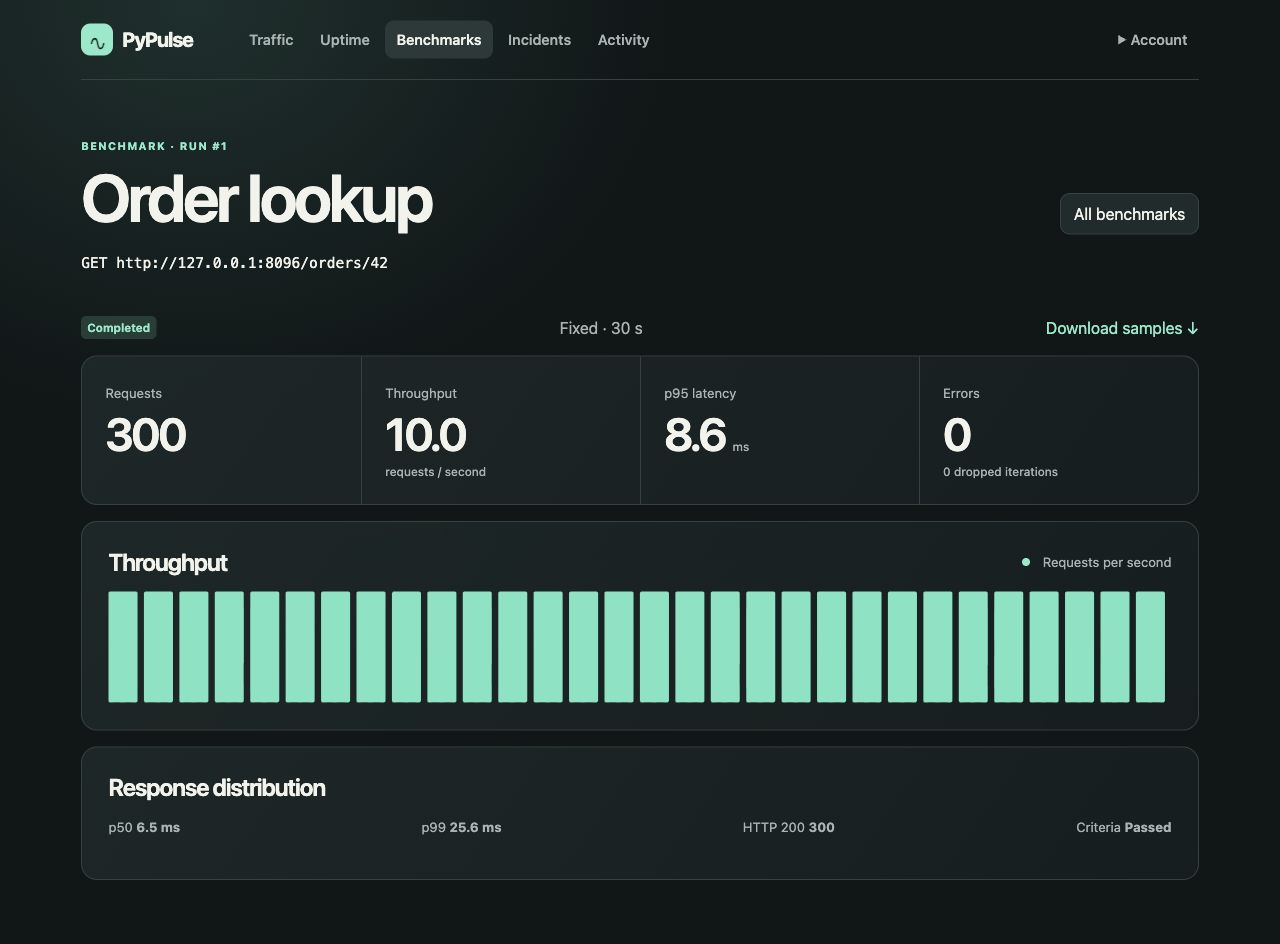
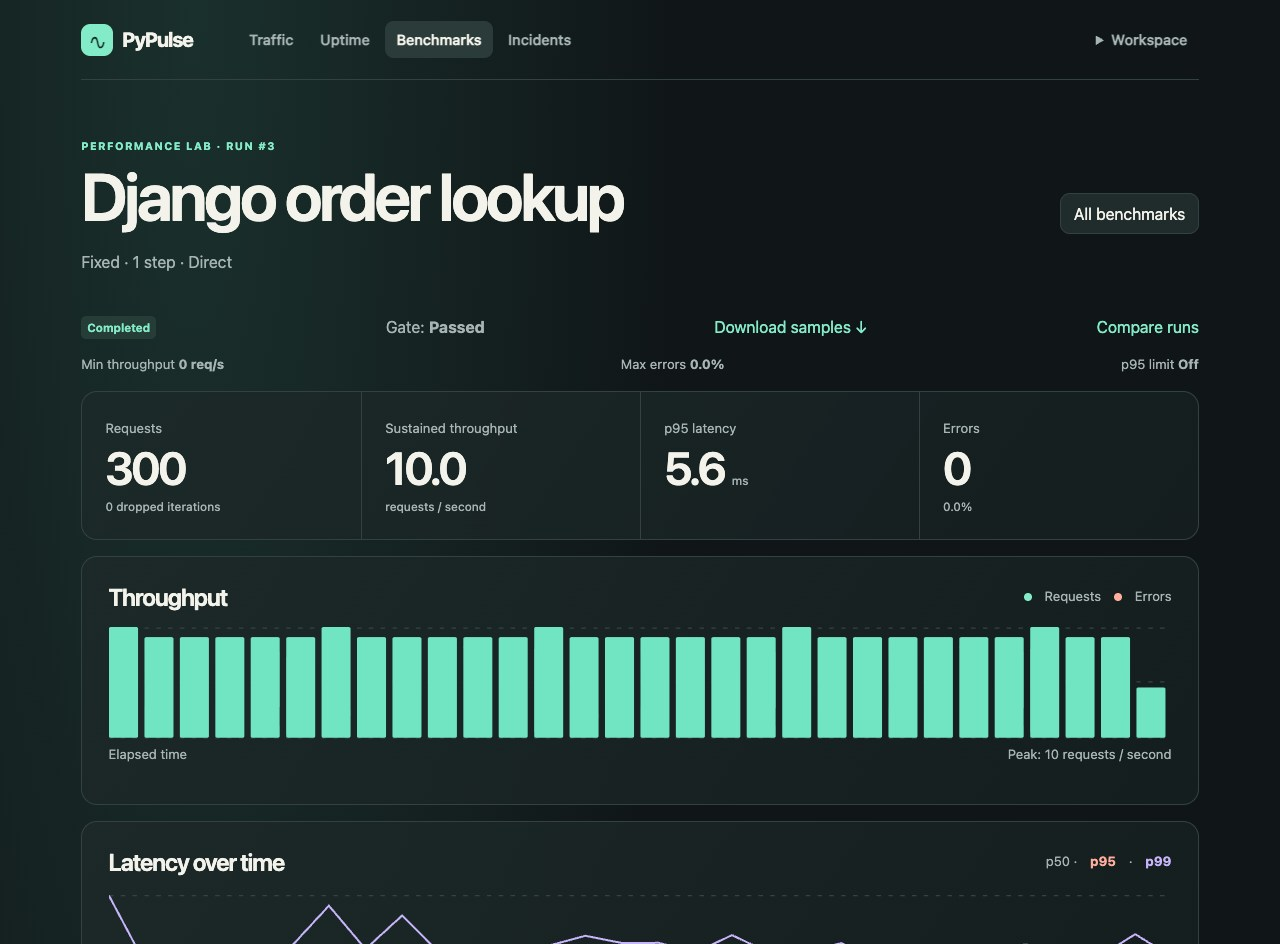
Preview monitor requests, inspect failed checks and document the live Django run

diff --git a/console/templates/console/uptime_measurements.html b/console/templates/console/uptime_measurements.html
@@ -9,9 +9,10 @@
 {% for s in segments %}<polyline points="{{ s }}" fill="none" stroke="var(--accent)" stroke-width="2" vector-effect="non-scaling-stroke"/>{% endfor %}
 {% for x,y in points %}<circle cx="{{ x }}" cy="{{ y }}" r="2" fill="var(--accent)"/>{% endfor %}</svg>
 <div class="axis"><span>{{ start|date:"M d H:i" }} UTC</span><span>{{ end|date:"M d H:i" }} UTC</span></div>{% else %}<p class="muted">No observations in this time range.</p>{% endif %}</section>
-<section class="panel"><h2>Recent checks</h2><div class="table-wrap"><table><thead><tr><th>Time (UTC)</th><th>HTTP</th><th>Duration</th><th>Result</th></tr></thead><tbody>
-{% for c in checks %}<tr><td>{{ c.at|date:"M d H:i:s" }}</td><td>{{ c.status|default:"—" }}</td><td>{{ c.ms|floatformat:1 }} ms</td><td>{% if c.slow %}Slow{% elif c.ok %}Passed{% else %}{{ c.reason|default:"Failed" }}{% endif %}</td></tr>{% empty %}<tr><td colspan="4">No checks in this time range.</td></tr>{% endfor %}
-</tbody></table></div></section>
+<section class="panel" id="checks"><div class="panel-head"><h2>Recent checks</h2><form method="get" action="#checks" class="pick"><input type="hidden" name="range" value="{{ period }}">
+<label>Result <select name="result" data-submit><option value="all">All checks</option><option value="issues" {% if check_filter == 'issues' %}selected{% endif %}>Failed or slow</option><option value="failed" {% if check_filter == 'failed' %}selected{% endif %}>Failed only</option><option value="slow" {% if check_filter == 'slow' %}selected{% endif %}>Slow only</option></select></label><noscript><button>Apply</button></noscript></form></div><div class="table-wrap"><table><thead><tr><th>Time (UTC)</th><th>HTTP</th><th>Duration</th><th>Result</th></tr></thead><tbody>
+{% for c in checks %}<tr><td>{{ c.at|date:"M d H:i:s" }}</td><td>{{ c.status|default:"—" }}</td><td>{{ c.ms|floatformat:1 }} ms</td><td>{% if c.slow %}Slow{% elif c.ok %}Passed{% else %}{{ c.reason|default:"Failed" }}{% endif %}</td></tr>{% empty %}<tr><td colspan="4">No matching checks in this time range.</td></tr>{% endfor %}
+</tbody></table></div>{% if checks.has_other_pages %}<nav class="toolbar" aria-label="Check history pages">{% if checks.has_previous %}<a href="?range={{ period }}&amp;result={{ check_filter }}&amp;checks_page={{ checks.previous_page_number }}#checks">← Newer checks</a>{% endif %}<span>Page {{ checks.number }} of {{ checks.paginator.num_pages }}</span>{% if checks.has_next %}<a href="?range={{ period }}&amp;result={{ check_filter }}&amp;checks_page={{ checks.next_page_number }}#checks">Older checks →</a>{% endif %}</nav>{% endif %}</section>
 {% if recent_incidents %}<section class="panel"><h2>Incident history</h2>{% for i in recent_incidents %}<p>{{ i.opened|date:"M d H:i" }} UTC · {% if i.closed %}Recovered {{ i.closed|date:"M d H:i" }} UTC{% elif i.acknowledged %}Acknowledged{% else %}Open{% endif %}</p>{% endfor %}{% if recent_incidents.has_other_pages %}<nav class="toolbar" aria-label="Monitor incident pages">{% if recent_incidents.has_previous %}<a href="?range={{ period }}&amp;ipage={{ recent_incidents.previous_page_number }}">← Newer incidents</a>{% endif %}<span>Page {{ recent_incidents.number }} of {{ recent_incidents.paginator.num_pages }}</span>{% if recent_incidents.has_next %}<a href="?range={{ period }}&amp;ipage={{ recent_incidents.next_page_number }}">Older incidents →</a>{% endif %}</nav>{% endif %}</section>{% endif %}
 
 {% if rollups %}<section class="panel"><h2>Archived hourly observations</h2><div class="table-wrap"><table><thead><tr><th>Hour (UTC)</th><th>Passed / total</th><th>Fastest</th><th>Slowest</th></tr></thead><tbody>{% for row in rollups %}<tr><td>{{ row.hour|date:"M d H:00" }}</td><td>{{ row.passed }} / {{ row.total }}</td><td>{{ row.min_ms|floatformat:1 }} ms</td><td>{{ row.max_ms|floatformat:1 }} ms</td></tr>{% endfor %}</tbody></table></div></section>{% endif %}

diff --git a/console/templates/console/uptime_list.html b/console/templates/console/uptime_list.html
@@ -5,6 +5,6 @@
 <div><span class="uptime-state" data-state="Down">Down</span><strong>{{ down }}</strong></div>
 </section>
 <section class="panel"><div class="panel-head"><h2>Endpoints</h2><span class="muted">Last 24 hours</span></div>
-<div class="table-wrap"><table><thead><tr><th>Monitor</th><th>Project</th><th>State</th><th>Checks passed</th><th>Interval</th></tr></thead><tbody>
-{% for m in monitors %}<tr><td><a href="{% url 'monitor' m.pk %}">{{ m.name }}</a></td><td>{{ m.group|default:"—" }}</td><td>{% include 'console/uptime_state.html' with monitor=m %}</td><td>{% if m.n %}{{ m.availability|floatformat:2 }}% <small class="muted">({{ m.good }}/{{ m.n }})</small>{% else %}No checks{% endif %}</td><td>{{ m.interval }} s</td></tr>{% empty %}<tr><td colspan="5">No endpoints in this view.</td></tr>{% endfor %}
+<div class="table-wrap"><table><thead><tr><th>Monitor</th><th>Project</th><th>State</th><th>Checks passed</th><th>Last latency</th><th>Last check (UTC)</th><th>Interval</th></tr></thead><tbody>
+{% for m in monitors %}<tr><td><a href="{% url 'monitor' m.pk %}">{{ m.name }}</a></td><td>{{ m.group|default:"—" }}</td><td>{% include 'console/uptime_state.html' with monitor=m %}</td><td>{% if m.n %}{{ m.availability|floatformat:2 }}% <small class="muted">({{ m.good }}/{{ m.n }})</small>{% else %}No checks{% endif %}</td><td>{% if m.last_check %}{{ m.last_ms|floatformat:1 }} ms{% else %}—{% endif %}</td><td>{% if m.last_check %}<time datetime="{{ m.last_check|date:'c' }}">{{ m.last_check|date:"M d H:i:s" }}</time>{% else %}—{% endif %}</td><td>{{ m.interval }} s</td></tr>{% empty %}<tr><td colspan="7">No endpoints in this view.</td></tr>{% endfor %}
 </tbody></table></div></section>

diff --git a/docs/site/landing.js b/docs/site/landing.js
@@ -1,7 +1,7 @@
 const reports = {
   uptime: {title:"Catch an unhealthy endpoint.", description:"Three Django endpoints returned a healthy order, a deliberately slow response and an intentional failure. Scheduled checks distinguished all three.", alt:"Uptime dashboard showing healthy, slow and failed Django endpoints."},
   traffic: {title:"Find the failing route.", description:"Thirty requests hit a Django orders app. Six were deliberately slow. Three failed. Route-level counts show exactly which view returned each error.", alt:"Django traffic report showing 30 requests and three intentional errors."},
-  benchmark: {title:"Measure a release under load.", description:"All 300 requests to the order lookup succeeded in this separate local run. The measured p95 was 8.62 ms, p99 was 25.65 ms, and the worker dropped zero iterations.", alt:"Completed Python benchmark with 300 HTTP 200 responses and no dropped iterations."}
+  benchmark: {title:"Measure a release under load.", description:"In a repeat of the 30-second order benchmark, all 300 requests succeeded. Measured p95 was 5.56 ms, p99 was 7.06 ms, and the worker dropped zero iterations.", alt:"Completed Python benchmark with 300 HTTP 200 responses and no dropped iterations."}
 };
 for (const button of document.querySelectorAll("[data-report]")) {
   button.addEventListener("click", () => {

diff --git a/console/static/console/monitor_preview.js b/console/static/console/monitor_preview.js
@@ -1,0 +1,27 @@
+const editor = document.querySelector("#monitor-editor");
+editor.addEventListener("submit", async (event) => {
+  const button = event.submitter;
+  if (!button?.matches("[data-preview]")) return;
+  event.preventDefault();
+  const output = document.querySelector("#preview-result");
+  button.disabled = true;
+  output.textContent = "Sending test request…";
+  try {
+    const response = await fetch(button.formAction, {
+      method: "POST",
+      credentials: "same-origin",
+      headers: { Accept: "application/json" },
+      body: new FormData(editor),
+    });
+    if (response.redirected || !response.headers.get("Content-Type")?.includes("application/json")) {
+      throw new Error("Preview unavailable");
+    }
+    const preview = await response.json();
+    output.textContent = [preview.result, preview.http && `HTTP ${preview.http}`,
+      preview.ms != null && `${preview.ms} ms`].filter(Boolean).join(" · ");
+  } catch {
+    output.textContent = "Preview unavailable. Refresh the page and try again.";
+  } finally {
+    button.disabled = false;
+  }
+});

diff --git a/console/templates/console/monitor_form.html b/console/templates/console/monitor_form.html
@@ -1,0 +1,8 @@
+{% extends 'console/base.html' %}{% load static %}
+{% block head %}<script defer src="{% static 'console/monitor_preview.js' %}"></script>{% endblock %}
+{% block content %}<p class="eyebrow"><a href="{% url 'monitors' %}">Uptime</a></p><h1>{{ title }}</h1>
+<form class="panel fields" method="post" id="monitor-editor">{% csrf_token %}{{ form.as_p }}
+<div class="actions"><button class="primary">{{ button }}</button>
+<button type="submit" data-preview formtarget="_blank" formaction="{% if form.instance.pk %}{% url 'edit_monitor_preview' form.instance.pk %}{% else %}{% url 'new_monitor_preview' %}{% endif %}">Send test request</button></div>
+<p class="muted">The test sends one request using the current form. The preview times out after 5 seconds.</p>
+<output id="preview-result" role="status" aria-live="polite"></output></form>{% endblock %}

diff --git a/console/templates/console/monitor_preview.html b/console/templates/console/monitor_preview.html
@@ -1,0 +1,3 @@
+{% extends 'console/base.html' %}{% block content %}
+<p class="eyebrow">Uptime</p><h1>Request preview</h1>
+<section class="panel"><h2>{{ preview.result }}</h2><p>{% if preview.http %}HTTP {{ preview.http }}{% endif %}{% if preview.ms != None %} · {{ preview.ms }} ms{% endif %}</p></section>{% endblock %}

diff --git a/console/uptime_views.py b/console/uptime_views.py
@@ -8,17 +8,18 @@ from django.contrib.auth.decorators import login_required
 from django.core.exceptions import PermissionDenied
 from django.core.paginator import Paginator
 from django.db import transaction
-from django.db.models import Case, Count, F, FilteredRelation, Q, Sum, Value, When
+from django.db.models import Case, Count, F, FilteredRelation, OuterRef, Q, Subquery, Sum, Value, When
 from django.db.models.functions import StrIndex, Substr, TruncDay, TruncHour, TruncMinute
-from django.http import Http404
+from django.http import Http404, JsonResponse
 from django.shortcuts import get_object_or_404, redirect, render
 from django.utils import timezone
 from django.views.decorators.cache import never_cache
+from django.views.decorators.csrf import csrf_protect
 from django.views.decorators.http import require_http_methods, require_POST
 
-from .models import AlertChannel, AlertDelivery, Audit, Incident, Maintenance, Monitor
-from .uptime_engine import in_maintenance, occurrence
-from .uptime_forms import ChannelForm, MaintenanceForm, SharedMaintenanceForm
+from .models import AlertChannel, AlertDelivery, Audit, Check, Incident, Maintenance, Monitor
+from .uptime_engine import in_maintenance, measure_monitor, occurrence
+from .uptime_forms import ChannelForm, MaintenanceForm, MonitorForm, SharedMaintenanceForm
 
 
 def require_permission(request, code):
@@ -44,7 +45,7 @@ RANGES = {"1h": (1, TruncMinute, 60), "24h": (24, TruncHour, 3600),
           "7d": (168, TruncHour, 3600), "30d": (720, TruncDay, 86400), "90d": (2160, TruncDay, 86400)}
 
 
-def measurement_context(monitor, period):
+def measurement_context(monitor, period, check_filter="all", page=None):
     hours, trunc, width = RANGES[period]
     now = timezone.now()
     start = now - timedelta(hours=hours)
@@ -87,7 +88,10 @@ def measurement_context(monitor, period):
         segments[-1].append(f"{x},{y}")
         points.append((x, y))
         previous = bucket
-    return {"period": period, "periods": RANGES.keys(), "checks": checks.order_by("-at","-id")[:80],
+    filters = {"failed": Q(ok=False), "slow": Q(slow=True), "issues": Q(ok=False) | Q(slow=True)}
+    history = checks.filter(filters[check_filter]) if check_filter in filters else checks
+    history_page = Paginator(history.order_by("-at","-pk"), 25).get_page(page)
+    return {"period": period, "periods": RANGES.keys(), "checks": history_page, "check_filter":check_filter if check_filter in filters else "all",
             "count": count, "p99": p99, "slow_count": slow_count, "incident_count":monitor.incidents.filter(opened__gte=start, opened__lte=now).count(), "raw_count":raw_count, "rollups":list(rolled)[-48:][::-1], "mean": total_ms/count if count else None, "p95": p95, "availability": 100 * passed / count if count else None,
             "peak": peak, "points": points, "segments": [" ".join(g) for g in segments], "start": start, "end": now}
 
@@ -115,7 +119,8 @@ def monitoring(request):
         monitors = monitors.filter(environment=environment)
     if chosen:
         monitors = monitors.filter(group=chosen)
-    monitors = list_stats(monitors)
+    latest = Check.objects.filter(monitor_id=OuterRef("pk")).order_by("-at","-pk")
+    monitors = list_stats(monitors.annotate(last_check=Subquery(latest.values("at")[:1]), last_ms=Subquery(latest.values("ms")[:1])))
     states = Counter(m.state for m in monitors if not m.paused)
     template = "console/uptime_list.html" if request.GET.get("partial") else "console/monitors.html"
     return render(request, template, {"section":"Uptime", "monitors":monitors, "up":states["Up"], "slow":states["Slow"], "down":states["Down"], "states":state_values, "selected_state":selected_state, "q":search, "groups":groups, "group":chosen, "environments":environments,"environment":environment,"tags":tags,"tag":tag})
@@ -127,7 +132,7 @@ def monitor_detail(request, pk):
     period = request.GET.get("range","24h")
     if period not in RANGES:
         period = "24h"
-    context = measurement_context(item,period)
+    context = measurement_context(item,period,request.GET.get("result","all"),request.GET.get("checks_page"))
     # Legacy URLs might embed query credentials; never render them in detail or status pages.
     endpoint = urlsplit(item.url)
     context.update(section="Uptime", monitor=item, endpoint=item.url.split("?")[0] if "{{" in item.url else f"{endpoint.scheme}://{endpoint.netloc.split('@')[-1]}{endpoint.path}",
@@ -135,6 +140,30 @@ def monitor_detail(request, pk):
                    maintenance_form=MaintenanceForm(), recent_incidents=Paginator(item.incidents.order_by("-opened","-pk"),10).get_page(request.GET.get("ipage")))
     template = "console/uptime_measurements.html" if request.GET.get("partial") else "console/monitor.html"
     return render(request,template,context)
+
+
+@login_required
+@require_POST
+@csrf_protect
+@never_cache
+def preview_monitor(request, pk=None):
+    require_permission(request,"change_monitor" if pk else "add_monitor")
+    item = get_object_or_404(Monitor,pk=pk) if pk else None
+    form = MonitorForm(request.POST,instance=item)
+    if form.is_valid():
+        candidate = form.save(commit=False)
+        result = measure_monitor(candidate, timeout_ms=min(5000, candidate.timeout_ms))
+        slow = candidate.warn_ms and result["ms"] > candidate.warn_ms
+        payload = {"result":result["reason"] or ("Slow" if slow else "Passed"),
+                   "http":result["status"], "ms":round(result["ms"],1)}
+        status_code = 200
+    else:
+        labels = [form.fields[field].label or field.replace("_"," ") for field in form.errors if field in form.fields]
+        payload = {"result":"Review " + ", ".join(labels or ["monitor settings"]), "http":None, "ms":None}
+        status_code = 400
+    if request.headers.get("Accept") == "application/json":
+        return JsonResponse(payload,status=status_code)
+    return render(request,"console/monitor_preview.html",{"section":"Uptime", "preview":payload},status=status_code)
 
 
 @login_required

diff --git a/console/test_uptime.py b/console/test_uptime.py
@@ -261,3 +261,66 @@ class UptimeTests(TestCase):
         self.assertEqual(self.client.post(location,{**data,"targets":[a.pk]}).status_code,403)
         self.assertEqual(self.client.post(reverse("remove_shared_window",args=[shared.pk])).status_code,403)
         self.assertEqual(Maintenance.objects.count(),1)
+
+    def test_preview_is_bounded_authorized_and_does_not_record(self):
+        client=Client(enforce_csrf_checks=True)
+        client.force_login(self.owner)
+        data=self.monitor_data(options=json.dumps({"auth":{"type":"bearer","token":"secret-input"}}),timeout_ms=60000)
+        m=Monitor.objects.create(name="Saved",url="https://example.org",state="Down",failures=3)
+        endpoint=reverse("edit_monitor_preview",args=[m.pk])
+        with patch("console.uptime_engine.probes.probe", return_value={
+                "status":200,"error":"","ms":42.5,"headers":{"Set-Cookie":"secret-output"},"body":b"secret-response"}) as probe:
+            self.assertEqual(client.post(endpoint,data).status_code,403)
+            self.assertEqual(client.get(endpoint).status_code,405)
+            client.get(reverse("edit_monitor",args=[m.pk]))
+            data["csrfmiddlewaretoken"]=client.cookies["csrftoken"].value
+            response=client.post(endpoint,data,HTTP_ACCEPT="application/json")
+            self.assertEqual(response.json(),{"result":"Passed","http":200,"ms":42.5})
+            self.assertEqual(probe.call_args.kwargs["timeout_ms"],5000)
+            self.assertEqual(probe.call_args.args[0]["auth"]["token"],"secret-input")
+            self.assertNotIn(b"secret",response.content)
+            data["url"]="invalid URL"
+            self.assertEqual(client.post(endpoint,data,HTTP_ACCEPT="application/json").status_code,400)
+            client.force_login(self.reader)
+            self.assertEqual(client.post(endpoint,data).status_code,403)
+            self.assertEqual(client.post(reverse("new_monitor_preview"),data).status_code,403)
+            probe.assert_called_once()
+        m.refresh_from_db()
+        self.assertEqual((m.name,m.failures,m.state),("Saved",3,"Down"))
+        self.assertFalse(Check.objects.exists())
+        self.assertFalse(Incident.objects.exists())
+        self.assertFalse(AlertDelivery.objects.exists())
+        self.assertEqual(Monitor.objects.count(),1)
+
+    def test_failed_slow_pagination_and_latest_measurement(self):
+        m=Monitor.objects.create(name="Orders",url="https://example.org")
+        now=timezone.now()
+        Check.objects.bulk_create([Check(monitor=m,at=now-timedelta(minutes=i+1),ms=i+1,ok=i%2==0,
+                                   slow=i%4==0,status=200 if i%2==0 else 503) for i in range(60)])
+        latest=Check.objects.create(monitor=m,at=now,ms=437,ok=True,status=200)
+        listing=self.client.get(reverse("monitors"))
+        self.assertEqual(listing.context["monitors"][0].last_check,latest.at)
+        self.assertContains(listing,"437.0 ms")
+        for scope,n in (("failed",30),("slow",15),("issues",45)):
+            response=self.client.get(reverse("monitor",args=[m.pk]),{"result":scope,"checks_page":2})
+            page=response.context["checks"]
+            self.assertEqual(page.paginator.count,n)
+            self.assertEqual(page.number,min(2,page.paginator.num_pages))
+            self.assertEqual(response.context["count"],61)
+            if scope=="failed":
+                self.assertTrue(all(not item.ok for item in page))
+                self.assertContains(response,"Newer checks")
+
+    def test_unsaved_monitor_preview_reports_assertion_without_persisting(self):
+        form=self.client.get(reverse("new_monitor"))
+        self.assertContains(form,reverse("new_monitor_preview"))
+        options={"json_equals":{"ready":True}}
+        data=self.monitor_data(options=json.dumps(options),timeout_ms=600)
+        response_data={"status":200,"error":"","ms":10,"body":b'{"ready":false,"private":"sensitive"}',"headers":{}}
+        with patch("console.uptime_engine.probes.probe",return_value=response_data) as probe:
+            response=self.client.post(reverse("new_monitor_preview"),data)
+            self.assertContains(response,"JSON value mismatch")
+            self.assertNotContains(response,"sensitive")
+            self.assertEqual(probe.call_args.kwargs["timeout_ms"],600)
+        self.assertFalse(Monitor.objects.exists())
+        self.assertFalse(Check.objects.exists())

diff --git a/console/uptime_engine.py b/console/uptime_engine.py
@@ -89,21 +89,28 @@ def notify(monitor, state, event=None, incident=None, now=None):
     AlertDelivery.objects.bulk_create(rows)
 
 
-def check_monitor(pk):
-    monitor = Monitor.objects.select_related("network_profile").filter(pk=pk, paused=False).first()
-    if monitor is None:
-        return
+def measure_monitor(monitor, *, timeout_ms=None):
+    """Evaluate the request without recording or exposing its contents."""
     try:
         opts = request_options(monitor)
         request = {key: opts[key] for key in ("headers", "query", "body", "auth") if key in opts}
         request.update(url=monitor.url, method=monitor.method)
         variables = probes.workspace_variables(monitor.environment)
         profile = monitor.network_profile.snapshot() if monitor.network_profile else None
-        result = probes.probe(request, variables, profile, timeout_ms=monitor.timeout_ms)
+        result = probes.probe(request, variables, profile, timeout_ms=timeout_ms if timeout_ms is not None else monitor.timeout_ms)
         reason = verdict(monitor, opts, result)
     except Exception:
         # Invalid stored configuration and transport failures must not reveal request secrets.
         result, reason = {"ms": 0, "status": 0}, "Check configuration failed"
+    return {"ms": result["ms"], "status": result["status"] or None, "reason": reason}
+
+
+def check_monitor(pk):
+    monitor = Monitor.objects.select_related("network_profile").filter(pk=pk, paused=False).first()
+    if monitor is None:
+        return
+    result = measure_monitor(monitor)
+    reason = result["reason"]
     now = timezone.now()
     with transaction.atomic():
         monitor = Monitor.objects.select_for_update().filter(pk=pk, paused=False).first()

diff --git a/console/views.py b/console/views.py
@@ -118,7 +118,7 @@ def configure(request,kind,pk=None,pattern=None):
             log_action(request,"Saved "+kind+" "+obj.name)
         return redirect("benchmarks" if kind=="test" else "monitors")
     title=("Edit " if pk else "New ")+("benchmark" if kind=="test" else "monitor")
-    template="console/bench_form.html" if kind=="test" else "console/form.html"
+    template="console/bench_form.html" if kind=="test" else "console/monitor_form.html"
     return render(request,template,{"title":title,"section":section,"form":form,"button":"Save"})
 
 @login_required

diff --git a/console/uptime_urls.py b/console/uptime_urls.py
@@ -3,6 +3,8 @@ from django.urls import path
 from . import uptime_views as v
 
 urlpatterns = [
+    path("uptime/new/preview/", v.preview_monitor, name="new_monitor_preview"),
+    path("uptime/<int:pk>/preview/", v.preview_monitor, name="edit_monitor_preview"),
     path("maintenance/", v.maintenance, name="maintenance"),
     path("maintenance/<int:window_pk>/delete/", v.remove_shared_window, name="remove_shared_window"),
     path("uptime/<int:pk>/actions/<str:action>/", v.monitor_action, name="monitor_action"),

diff --git a/docs/uptime.md b/docs/uptime.md
@@ -9,7 +9,7 @@ A PyPulse worker calls each scheduled HTTP endpoint from the machine where the w
 3. Set the interval, timeout, expected status, optional required response text and slow-response threshold. New monitors inherit the workspace's timing and failure defaults. Set the slow threshold to zero to disable slow-response alerts.
 4. Use **Private request options** for authentication, headers, query parameters, a request body and additional assertions. Paste a JSON object. On edit, a blank field preserves the configuration. Enter `{}` to clear it.
 5. Pick the consecutive failure threshold, alert events, destinations, reminder interval and escalation delay. Enable **Show on public status page** if the service name and availability should be public.
-6. Save and open the monitor. **Check now** makes it due for the next worker pass. Pause and resume scheduling from the detail page. A clone starts paused and private, with fresh history and its original request and routing settings.
+6. Choose **Send test request** to make one real request from the dashboard server, using the current form and a five-second timeout ceiling. The preview shows the HTTP status, duration and assertion result. It leaves check history, incident state and notifications untouched. Save and open the monitor. **Check now** makes it due for the next worker pass. Pause and resume scheduling from the detail page. A clone starts paused and private, with fresh history and its original request and routing settings.
 
 Here is a request for an authenticated JSON endpoint. Create the secret workspace variable `API_TOKEN` in the selected environment.
 
@@ -29,11 +29,11 @@ The supported methods are GET, HEAD, POST, PUT, PATCH, DELETE and OPTIONS. Heade
 
 ## Read availability and latency
 
-**Uptime** shows each monitor's state and the fraction of checks that passed in the last 24 hours. Search by name or endpoint URL, then filter by state, project, environment and tag. State and search filters combine with the project, environment and tag. A 24-hour field with no completed checks shows **No checks**.
+**Uptime** shows each monitor's current state, latest check timestamp, latest latency and the fraction of checks that passed in the last 24 hours. Search by name or endpoint URL, then filter by state, project, environment and tag. State and search filters combine with the project, environment and tag. A 24-hour field with no completed checks shows **No checks**.
 
 Open a monitor to compare **1h**, **24h**, **7d**, **30d** and **90d**. The numerator is successful scheduled or manual checks. The denominator is completed checks, including failures. Paused periods and intervals with no observations contribute no samples. The chart shows mean duration per time bucket. Gaps indicate unsampled buckets. The summary includes mean latency, nearest-rank p95 and p99, slow checks and incidents opened during the selected range. After raw retention expires, archived UTC hours contribute weighted counts and means. The percentiles use retained individual observations. The slow count uses the threshold at check time for samples collected after upgrading to this release. The oldest archived hour crossing the start of a selected range is omitted because its individual timestamps have expired.
 
-The recent-check table shows the HTTP status, duration and a short assertion or transport result. While the tab is visible, the dashboard updates the measurement panel in place. The public status page shows published, active monitor names and their state and 24-hour success rates. Workspace settings control the title and publication switch.
+The recent-check table shows the HTTP status, duration and a short assertion or transport result. Filter it to failed checks, slow checks, or both, and use the pagination links within the selected time range. While the tab is visible, the dashboard updates the measurement panel in place. The public status page shows published, active monitor names and their state and 24-hour success rates. Workspace settings control the title and publication switch.
 
 ## Configure notifications
 
